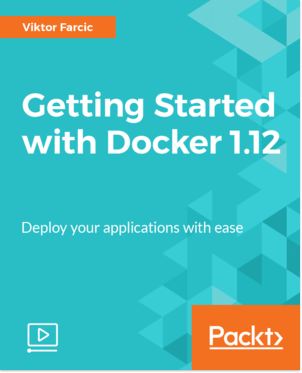
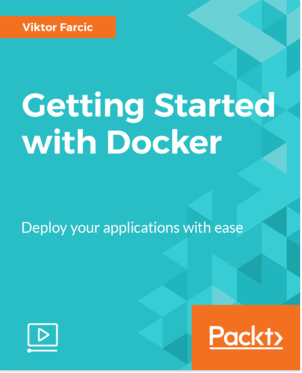
Packt video update

Changed region(s): [[0.745, 0.3244, 0.9238, 0.4129]]

diff --git a/docs/the-end.md b/docs/the-end.md
@@ -16,9 +16,9 @@
 
 ---
 
-## [Getting Started With Docker](https://www.packtpub.com/application-development/getting-started-docker-112-video)
+## [Getting Started With Docker](https://www.packtpub.com/application-development/getting-started-docker-video)
 
-[![](../img/products/packt-video.png)](https://www.packtpub.com/application-development/getting-started-docker-112-video) ![](../img/qr/packt-video.png)
+[![](../img/products/packt-video.png)](https://www.packtpub.com/application-development/getting-started-docker-video) ![](../img/qr/packt-video.png)
 
 
 ## Videos (YouTube)
